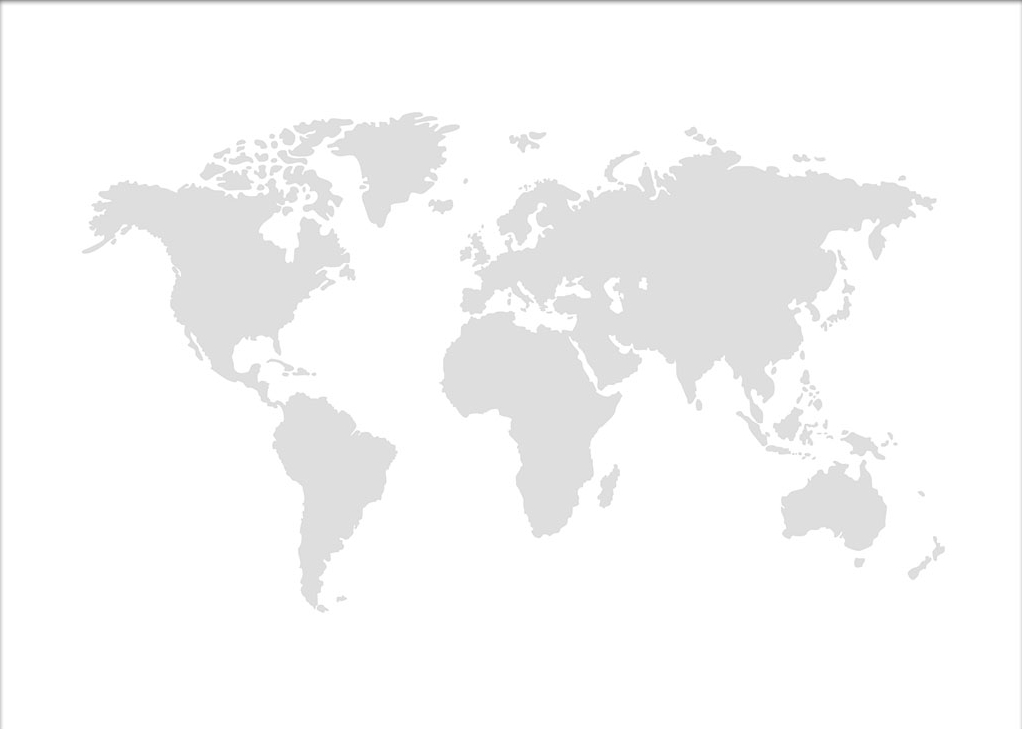
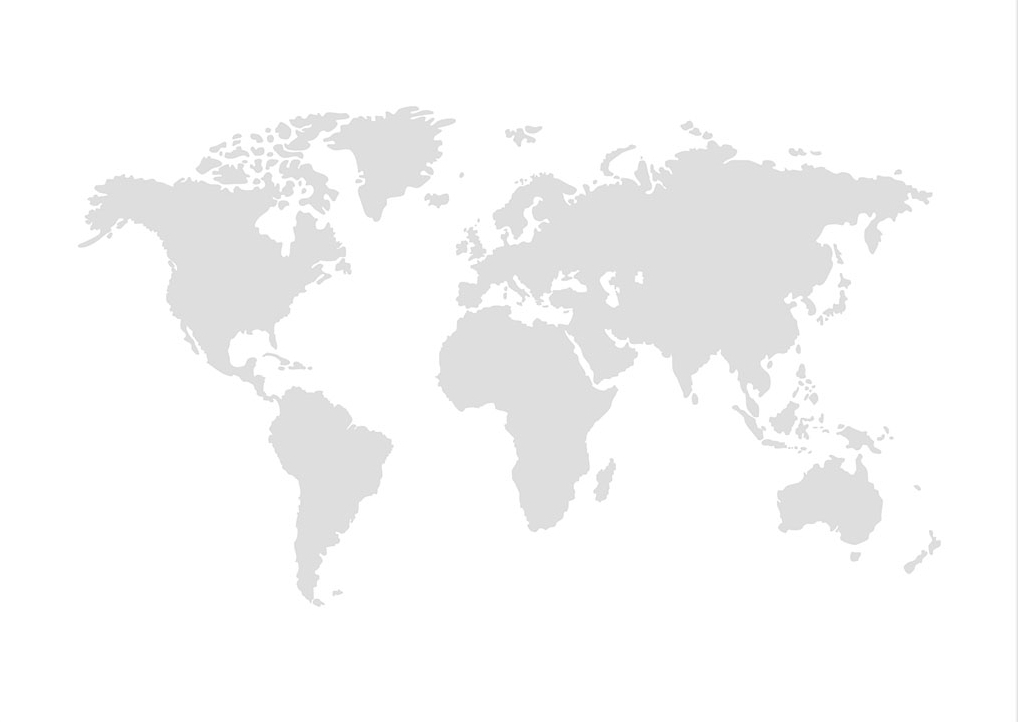
world image modified

diff --git a/src/app/home/home.component.css b/src/app/home/home.component.css
@@ -1,6 +1,6 @@
 div.container-fluid {
   background-image: url(../images/world-image.jpg);
-  background-size: cover;
+  background-size: 100% 100%;
   background-position: center;
   background-clip: border-box;
   background-repeat: no-repeat;
